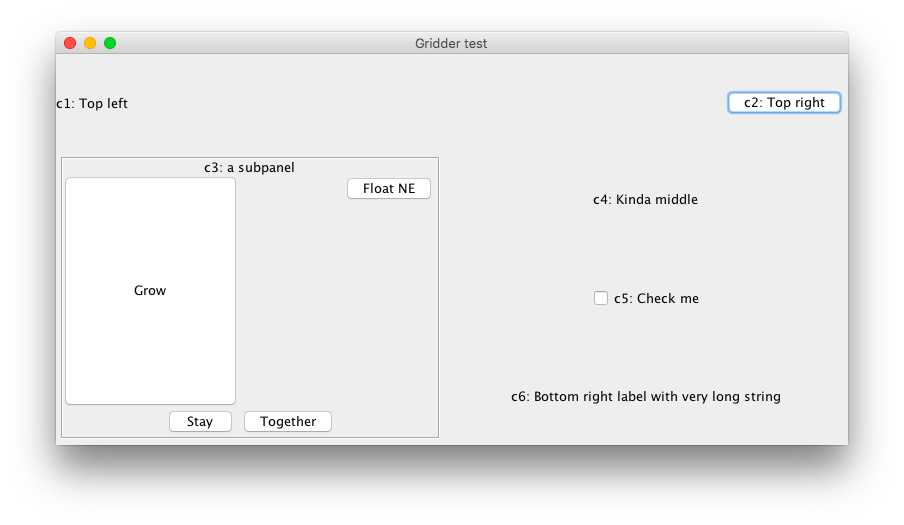
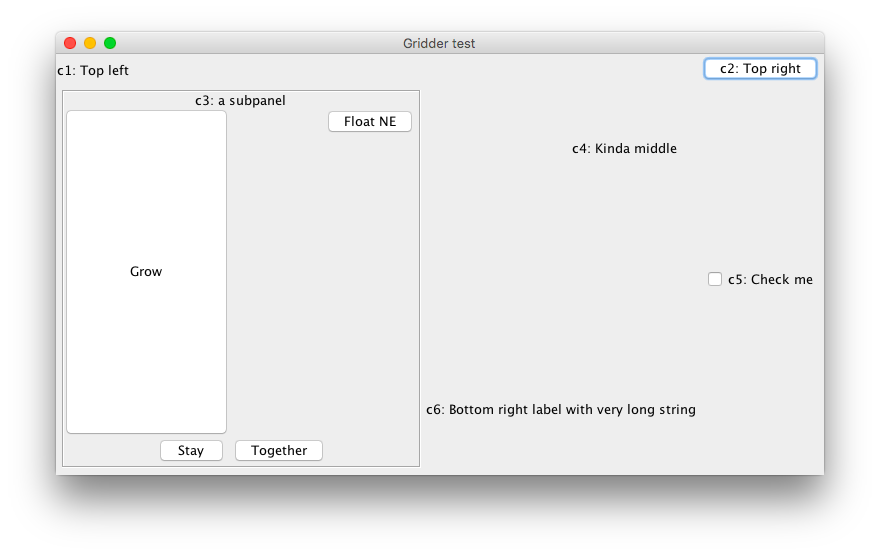
Changed 2D layout language to support embedded floats.
We need to be able to embed floating-point numbers in a layout
string, to support embedded weight specifiers. Therefore,
'.' can no longer occupy a grid location. I changed '-' to
be the space-occupying grid character, and added '+' to mean
"extend component right".

diff --git a/src/net/kneuro/layout/Gridder.java b/src/net/kneuro/layout/Gridder.java
@@ -131,10 +131,10 @@ import javax.swing.JComponent;
  * For example, here is a somewhat complex layout:
  * <pre>
  * String layout =
- *    "    {c1                 - - c2}    "+
- *    "    {c3:wx1,wy2,i*5,fxy - c4 -}    "+
- *    "    {|                  . . c5}    "+
- *    "    {|                  . c6 -}    ";
+ *    "    {c1                 + + c2}    "+
+ *    "    {c3:wx1,wy2,i*5,fxy + c4 -}    "+
+ *    "    {|                  - - c5}    "+
+ *    "    {|                  - c6 +}    ";
  * gr.parseLayout(layout);
  * </pre>
  * (Whitespace added to layout string for clarity.) Such a string
@@ -143,7 +143,7 @@ import javax.swing.JComponent;
  * <p>
  * <ul>
  * <li> Component c1 occupies the first three cells of row 0
- *   (- means "extend the previous component into this column").
+ *   (+ means "extend the previous component into this column").
  * <li> Component c2 occupies the fourth cell of row 0.
  * <li> Component c3 occupies the first two cells of row 1, and
  *   extends two cells downward to row 3 (| means "extend
@@ -164,18 +164,18 @@ import javax.swing.JComponent;
  * In general, 
  * <ul>
  * <li> Curly brackets { and } delimit each grid row;
- * <li> - causes the gridwidth of the component to the
+ * <li> + causes the gridwidth of the component to the
  *   left to be increased by 1;
  * <li> | causes the gridheight of the component *directly*
  *   above to be increased by 1;
- * <li> . simply occupies space. All grid cells must be
+ * <li> - simply occupies space. All grid cells must be
  *   filled with either a component identifier or
- *   one of the characters .<^|-
- * <li> < is a synonym for - and ^ is a synonym for |, for
+ *   one of the characters |-^<+
+ * <li> < is a synonym for + and ^ is a synonym for |, for
  *   historical compatibility with an earlier version
  *   of this code.
  * <li> Component identifiers are any string that contains
- *   no whitespace and none of the characters {}|-^< .
+ *   no whitespace and none of the characters {}|-^<+
  * <li> If a component identifier contains a colon, the
  *   characters following the colon are interpreted as a
  *   comma-separated list of constraints in the format
@@ -187,7 +187,7 @@ import javax.swing.JComponent;
  *   names helps to keep a 2D layout compact.
  * </ul>
  * <p>
- * The - and | characters extending away from a component
+ * The + and | characters extending down and to the right of a component
  * denote the extent of that component. Dot characters are used
  * to fill in the space occupied by a multi-cell component, and
  * to indicate empty cells. Whitespace within a layout string
@@ -200,7 +200,7 @@ import javax.swing.JComponent;
  * whitespace. It could have been specified without extra
  * whitespace like this:
  * <pre>
- *    String layout="{c1--c2}{c3:wx1,wy2,i*5,fxy-c4-}{|..c5}{|.c6-}";
+ *    String layout="{c1++c2}{c3:wx1,wy2,i*5,fxy+c4+}{|--c5}{|-c6+}";
  * </pre>
  * but that would defeat the purpose of making the 2D structure
  * of the layout clear.
@@ -341,6 +341,7 @@ public class Gridder {
 			augmentedConstraints[0] = embeddedConstraints;
 			System.arraycopy(constraints,0,augmentedConstraints,1,constraints.length);
 			constraints = addGridSizeAndWeightConstraints(cp.width,cp.height,augmentedConstraints);
+			System.out.println(layoutName + " "+constraints[0]);
 			add(comp,cp.row,cp.col,constraints);
 		} else {
 			throw new RuntimeException("No component named "+layoutName+" in layout string.");
@@ -392,10 +393,14 @@ public class Gridder {
 		String[] constraintToks = constraintString.split(" ");
 		sb.append(" gridwidth ").append(gridwidth);
 		sb.append(" gridheight ").append(gridheight);
-		if (!arrayContains("weightx",constraintToks)) {
+		if (!arrayContains("weightx",constraintToks) &&
+				!arrayContains("wx",constraintToks) &&
+				!arrayContains("w*",constraintToks)) {
 			sb.append(" weightx ").append((double)gridwidth/100.0);
 		}
-		if (!arrayContains("weighty",constraintToks)) {
+		if (!arrayContains("weighty",constraintToks) &&
+				!arrayContains("wy",constraintToks) &&
+				!arrayContains("w*",constraintToks)) {
 			sb.append(" weighty ").append((double)gridheight/100.0);
 		}
 		return new Object[] {sb.toString()};
@@ -433,6 +438,9 @@ public class Gridder {
 		return false;
 	}
 
+	// Return the LayoutParser instance. For test and internal use only.
+	LayoutParser getLayoutParser() { return layout; }
+	
 	// The container being managed.
 	private Container container;
 

diff --git a/src/net/kneuro/layout/GridderTest.java b/src/net/kneuro/layout/GridderTest.java
@@ -22,11 +22,17 @@ public class GridderTest {
 		// c3 component will be a JPanel with its own layout.
 		Gridder gr = new Gridder(top.getContentPane());
 		String layout =
-				 "    {c1                 -   -     c2}    "+
-				 "    {c3:wx1,wy2,i*5,fxy -   c4    - }    "+
-				 "    {|                  .   .     c5}    "+
-				 "    {|                  .   c6    - }    ";
+				 "    {c1                 +   +     c2}    "+
+				 "    {c3:wx1,wy2,i*5,fxy +   c4    - }    "+
+				 "    {|                  -   -     c5}    "+
+				 "    {|                  -   c6    + }    ";
 		gr.parseLayout(layout);
+		
+		String[] cnames = {"c1","c2","c3","c4","c5","c6"};
+		for (String cname: cnames) {
+			LayoutParser.ComponentPosition comp = gr.getLayoutParser().getComponentByName(cname);
+			System.out.println(comp.name+" @ "+comp.row+","+comp.col+" w="+comp.width+" h="+comp.height+" cons="+comp.constraints);
+		}
 		
 		gr.add("c1", new JLabel("c1: Top left"),"anchor w");
 		gr.add("c4", new JLabel("c4: Kinda middle"));

diff --git a/src/net/kneuro/layout/LayoutParser.java b/src/net/kneuro/layout/LayoutParser.java
@@ -5,7 +5,6 @@
  */
 package net.kneuro.layout;
 
-import java.awt.GridBagConstraints;
 import java.util.LinkedList;
 
 /**
@@ -71,7 +70,7 @@ class LayoutParser {
 				cp = null;
 				++row;
 				break;
-			case ".":
+			case "+":
 				// Just increment the column number.
 				++col;
 				break;
@@ -145,12 +144,12 @@ class LayoutParser {
 				++idx;
 				break;
 			case '<':
-			case '-':
-				result = "-";
+			case '+':
+				result = "+";
 				++idx;
 				break;
-			case '.':
-				result = ".";
+			case '-':
+				result = "-";
 				++idx;
 				break;
 			default:
@@ -188,7 +187,7 @@ class LayoutParser {
 				(c == '<') ||
 				(c == '|') ||
 				(c == '-') ||
-				(c == '.');
+				(c == '+');
 	}
 
 	/**

diff --git a/README.md b/README.md
@@ -140,10 +140,10 @@ For example, here is a somewhat complex layout:
 
 ```
 String layout =
-   "    {c1                 - - c2}    "+
-   "    {c3:wx1,wy2,i*5,fxy - c4 -}    "+
-   "    {|                  . . c5}    "+
-   "    {|                  . c6 -}    ";
+   "    {c1                 + + c2}    "+
+   "    {c3:wx1,wy2,i*5,fxy + c4 +}    "+
+   "    {|                  - - c5}    "+
+   "    {|                  - c6 +}    ";
 
 // We must parse the layout before Gridder can use it.
 gr.parseLayout(layout);
@@ -154,7 +154,7 @@ represents a rectangular array of grid cells and identifies
 the position and extent of each component. This layout says that:
 
 - Component `c1` occupies the first three cells of row 0
-  (`-` means "extend the previous component into this column").
+  (`+` means "extend the previous component into this column").
 - Component `c2` occupies the fourth cell of row 0.
 - Component `c3` occupies the first two cells of row 1, and
   extends two cells downward to row 3 (`|` means "extend
@@ -184,25 +184,25 @@ configured by its own Gridder instance.
 In general, 
 
 - Curly brackets `{` and `}` delimit each grid row;
-- `-` causes the gridwidth of the component to the
+- `+` causes the gridwidth of the component to the
   left to be increased by 1;
 - `|` causes the gridheight of the component *directly*
   above to be increased by 1;
-- The `-` and `|` characters extending down and to the right
+- The `+` and `|` characters extending down and to the right
   from a component denote the extent of that component.
-- `.` simply occupies space. It is used to fill in the
+- `-` simply occupies space. It is used to fill in the
   space occupied by multi-cell components, and to indicate
   empty grid cells.  All grid cells must be
   filled with either a component identifier or
-  one of the characters `.<^|-`;
-- `<` is a synonym for `-` and `^` is a synonym for `|`, for
+  one of the characters `|+<^-`;
+- `<` is a synonym for `+` and `^` is a synonym for `|`, for
   historical compatibility with an earlier version
   of this code.
 - Whitespace within a layout string is ignored except that
    component identifiers such as "c1" are delimited by either
-   whitespace or one of the other layout characters `{.}|^<-`
+   whitespace or one of the other layout characters `{}|+<^-`
 - Component identifiers are strings that contain
-  no whitespace and none of the characters `{}|-^<` .
+  no whitespace and none of the characters `{}|+^<-` .
 - If a component identifier contains a colon, the
   characters following the colon are interpreted as a
   comma-separated list of constraints in the format
@@ -213,7 +213,7 @@ In general,
   component `c1` to `1.0`. Using the short constraint
   names helps to keep a 2D layout compact. If you prefer
   maximally-compact 2D layouts, do not use embedded constraints;
-  instead, override constraints in the add() method as
+  instead, override constraints in the `add()` method as
   described below.
 
 The layout string above is a completely valid example,
@@ -221,7 +221,7 @@ even with the additional whitespace. It could have been
 specified without extra whitespace like this:
 
 ```
-   String layout="{c1--c2}{c3:wx1,wy2,i*5,fxy-c4-}{|..c5}{|.c6-}";
+   String layout="{c1++c2}{c3:wx1,wy2,i*5,fxy+c4+}{|--c5}{|-c6+}";
 ```
 
 but that would defeat the purpose of making the 2D structure
